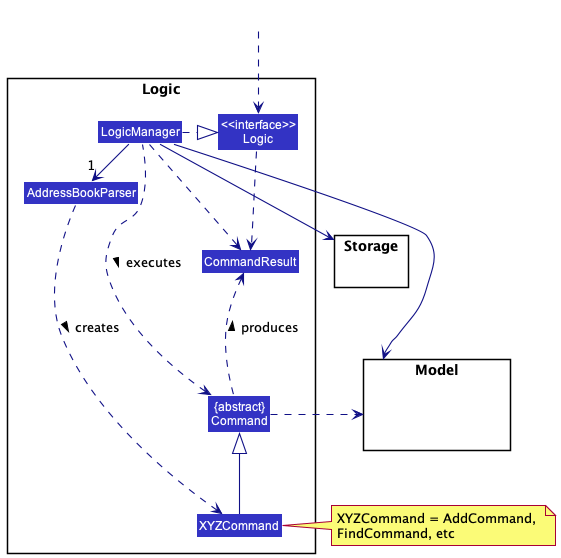
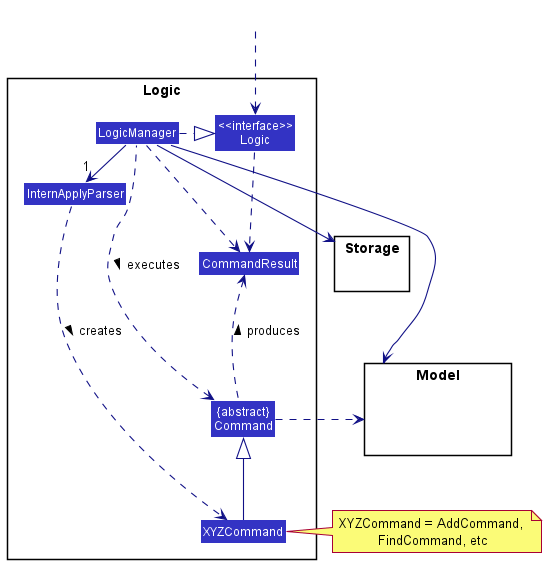
Update DG logic section to be inline with InternApply Add UML sequence Diagram for details implementation

diff --git a/docs/DeveloperGuide.md b/docs/DeveloperGuide.md
@@ -132,7 +132,7 @@ Here's a (partial) class diagram of the `Logic` component:
 <img src="images/LogicClassDiagram.png" width="550"/>
 
 How the `Logic` component works:
-1. When `Logic` is called upon to execute a command, it uses the `AddressBookParser` class to parse the user command.
+1. When `Logic` is called upon to execute a command, it uses the `InternApplyParser` class to parse the user command.
 1. This results in a `Command` object (more precisely, an object of one of its subclasses e.g., `AddCommand`) which is executed by the `LogicManager`.
 1. The command can communicate with the `Model` when it is executed (e.g. to add a person).
 1. The result of the command execution is encapsulated as a `CommandResult` object which is returned back from `Logic`.
@@ -149,7 +149,7 @@ Here are the other classes in `Logic` (omitted from the class diagram above) tha
 <img src="images/ParserClasses.png" width="600"/>
 
 How the parsing works:
-* When called upon to parse a user command, the `AddressBookParser` class creates an `XYZCommandParser` (`XYZ` is a placeholder for the specific command name e.g., `AddCommandParser`) which uses the other classes shown above to parse the user command and create a `XYZCommand` object (e.g., `AddCommand`) which the `AddressBookParser` returns back as a `Command` object.
+* When called upon to parse a user command, the `InternApplyParser` class creates an `XYZCommandParser` (`XYZ` is a placeholder for the specific command name e.g., `AddCommandParser`) which uses the other classes shown above to parse the user command and create a `XYZCommand` object (e.g., `AddCommand`) which the `InternApplyParser` returns back as a `Command` object.
 * All `XYZCommandParser` classes (e.g., `AddCommandParser`, `DeleteCommandParser`, ...) inherit from the `Parser` interface so that they can be treated similarly where possible e.g, during testing.
 
 [Go To TOC](#table-of-contents)
@@ -235,6 +235,13 @@ An example of how the parser works is:
 Desired  line in detail
 newline in the details field
 ```
+
+Sequence Diagram illustrating interaction with `Logic` components for `execute("edit 1 d/Line 1 \nLine 2")`:
+![Interactions Inside the Logic Component for the `delete 1` Command](images/EditCommandDetailsDiagram.png)
+
+<div markdown="span" class="alert alert-info">:information_source: **Note1:** The lifeline for `EditCommandParser` should end at the destroy marker (X) but due to a limitation of PlantUML, the lifeline reaches the end of diagram.
+**Note2:** The sequence diagram is similar to the delete command, due to InternApply using the command design pattern
+</div>
 
 ##### UI
 
